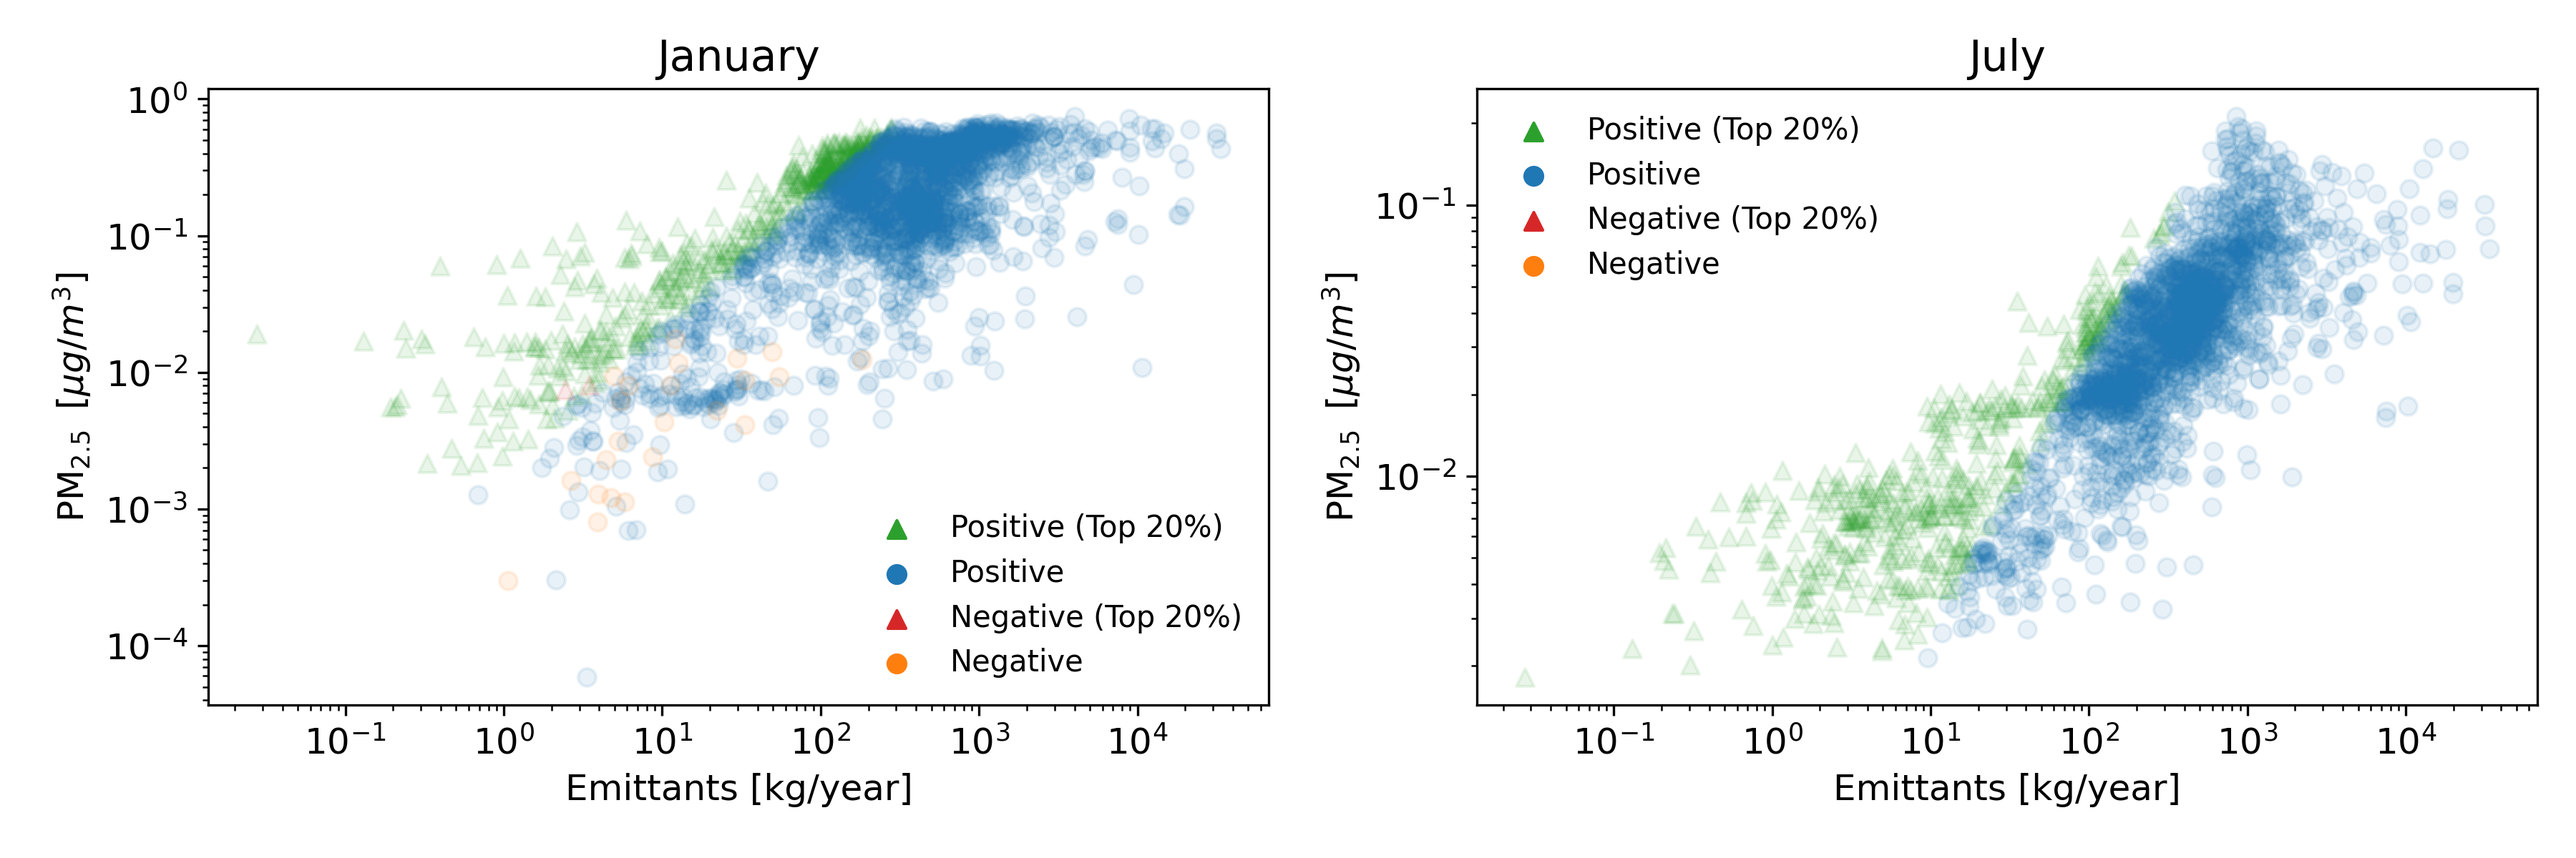
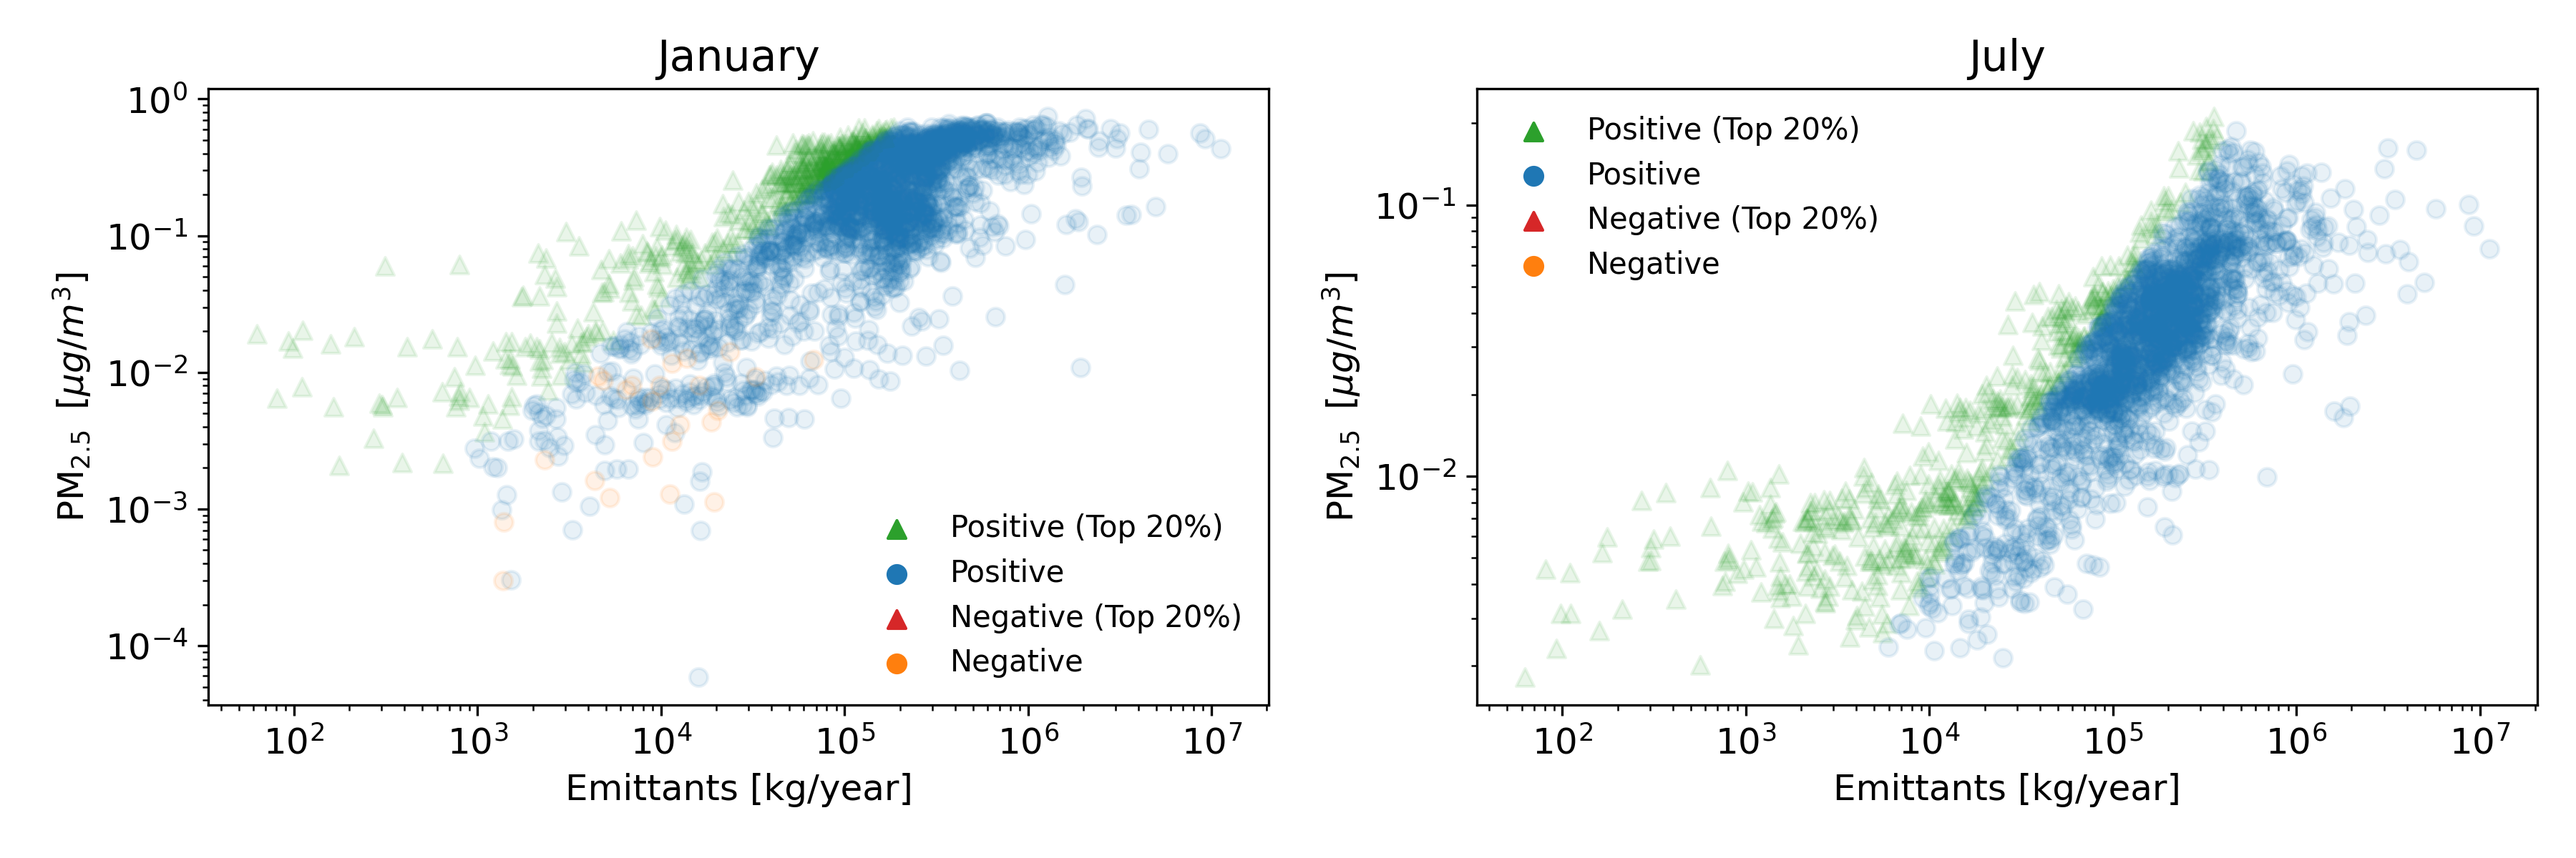
same but for scatter

diff --git a/division_processing/scatter_log_europe.py b/division_processing/scatter_log_europe.py
@@ -52,7 +52,7 @@ prep_europe = prep(europe_geom)
 types = {
     "Aerosol": {
         "PM25": {
-            "emittants": ["nvPM"],
+            "emittants": ["NO2"],
             "unit": 1,
             "name": r'PM$_{2.5} \:$'
         },
